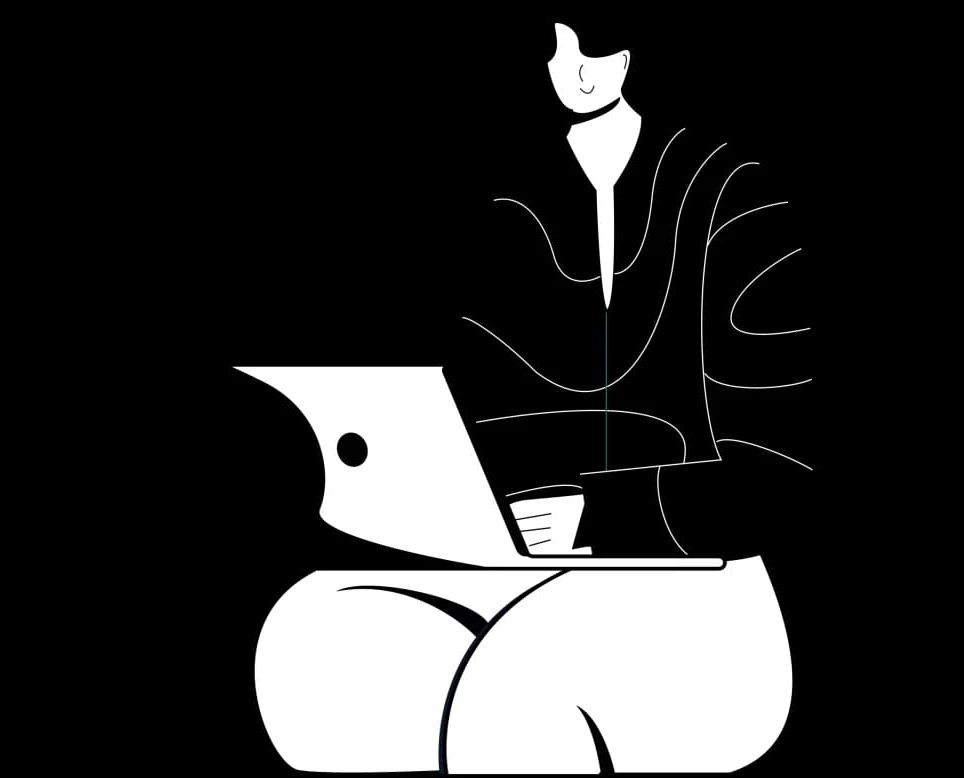
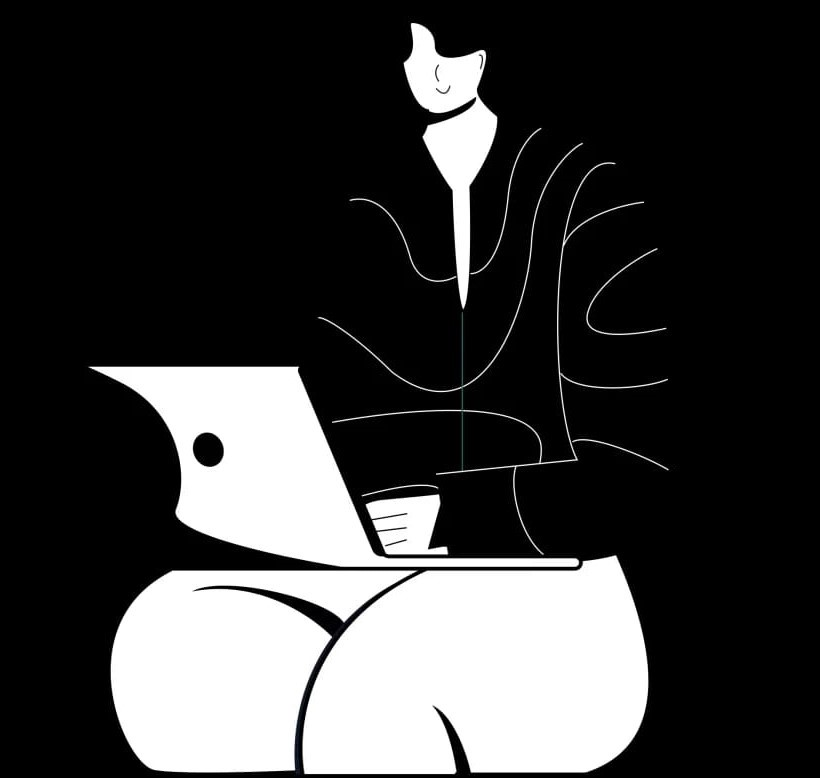
commited the components

diff --git a/src/Component/Skills/Skill.jsx b/src/Component/Skills/Skill.jsx
@@ -46,7 +46,7 @@ const Skill = ()=>{
             </motion.div>
               
 
-              <Marquee direction="right" gradient="true" gradientColor="black" speed={100} className="skill-marque">
+              <Marquee direction="right" gradient="true" gradientColor="black" gradientWidth="100px" speed={100} className="skill-marque">
               <motion.div className="skill-img-box" initial={{opacity:0 }} whileInView={{opacity :1 }} transition={{duration:1.5, delay:0.5}}>
               
               	<div className="skillbox">
@@ -82,7 +82,7 @@ const Skill = ()=>{
               </motion.div>
               </Marquee>
 
-              <Marquee direction="left" gradient="true" gradientColor="black"  speed={100} className="skill-marque">
+              <Marquee direction="left" gradient="true" gradientColor="black" gradientWidth="100px" speed={100} className="skill-marque">
               <motion.div className="skill-img-box" initial={{opacity:0 }} whileInView={{opacity :1 }} transition={{duration:1.5 ,delay:1}}>
               
               	<div className="skillbox">

diff --git a/src/Component/Skills/Skill.css b/src/Component/Skills/Skill.css
@@ -100,6 +100,11 @@
 
 
 @media (max-width: 1024px) {
+  .skill-page{
+    min-height: auto;
+    margin-bottom: 200px;
+  }
+
   .skill-heading-box h5 {
     font-size: 48px; 
 }
@@ -113,9 +118,13 @@
 
 }
 @media screen and (max-width: 768px) {
-    .skill-heading-box h5 {
+  .skill-page{
+    margin-bottom: 50px;
+  }
+
+  .skill-heading-box h5 {
     font-size: 36px; 
-}
+  }
 
   .skill-heading-box p {
     font-size: 18px; 

diff --git a/src/Component/Certificate/Certificate.css b/src/Component/Certificate/Certificate.css
@@ -131,6 +131,10 @@
 
 /* For screens 1024px and below */
 @media (max-width: 1024px) {
+  .certificate-page{
+    min-height: auto;
+    margin-bottom: 200px;
+  }
   .certificate-heading-box h5 {
     font-size: 48px; 
 }
@@ -145,7 +149,9 @@
 
 }
 @media screen and (max-width: 768px) {
-  
+  .certificate-page{
+    margin-bottom: 50px;
+  }
   .certificate-heading-box h5 {
     font-size: 36px;
   }

diff --git a/src/Component/Experience/Experience.css b/src/Component/Experience/Experience.css
@@ -1,9 +1,11 @@
 .experience-page{
    width: 100%;
-   min-height:100vh;
+/*   min-height:100vh;*/
+   min-height:auto;
    display: flex;
    flex-direction: column;
-   padding: 20px 20px;
+/*   padding: 20px 20px;*/
+   padding: 20px 20px 50px 20px;
    box-sizing: border-box;
 /*   background-color: black; */
 /*background-color: orange;*/

diff --git a/src/Component/About/About.css b/src/Component/About/About.css
@@ -132,6 +132,10 @@ padding: 0 0 10px 0;
 
 
 @media (max-width: 1024px) {
+  .about-page{
+       min-height:auto;
+       margin-bottom: 20px;
+  }
   .about-heading-box h5 {
     font-size: 48px; 
 }

diff --git a/src/Component/Contact/Contact.css b/src/Component/Contact/Contact.css
@@ -1,6 +1,7 @@
 .contact-page{
    width: 100%;
-   min-height:100vh;
+/*   min-height:100v0h;*/
+   min-height: auto;
    display: flex;
    flex-direction: column;
    padding: 20px 20px;

diff --git a/src/Component/Home/Home.css b/src/Component/Home/Home.css
@@ -135,7 +135,7 @@
 .hero {
   border-radius: 50px;
 /*  border-radius: 50%;*/
-  width: 80%;
+  width: 70%;
 /*  max-width: 400px;*/
 }
 
